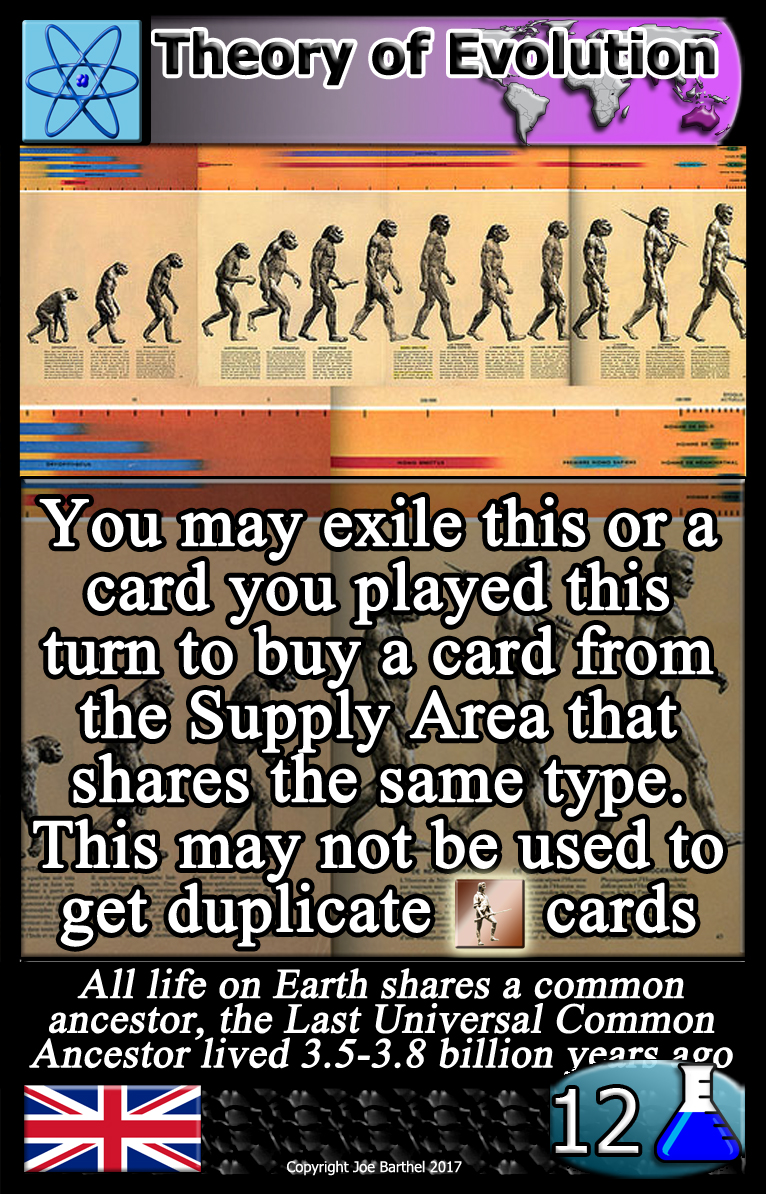
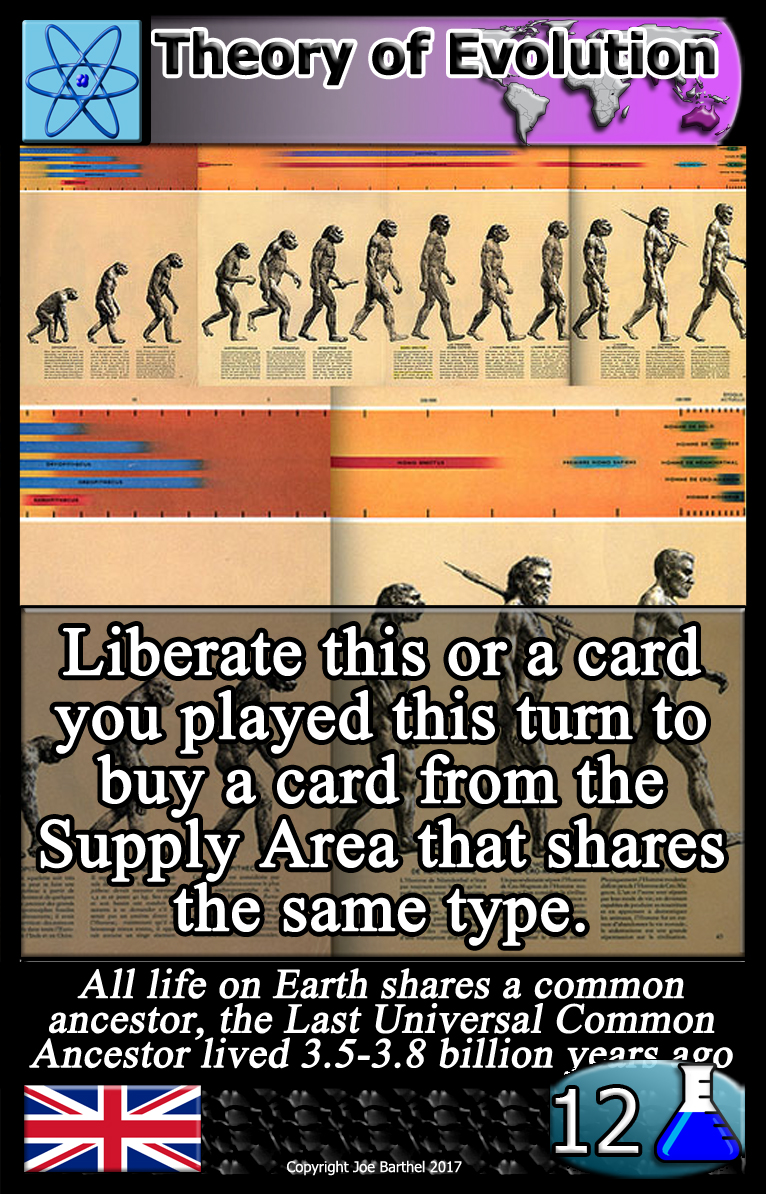
Technology cards

Changed region(s): [[0.0, 0.3719, 0.9909, 0.8057]]

diff --git a/components/game/cards/technology/Refrigeration.js b/components/game/cards/technology/Refrigeration.js
@@ -9,8 +9,21 @@ export default Refrigeration = (props) => {
         cost: {
             gold: 0,
             influence: 0, 
-            science: 4,
+            science: 8,
         },
+        choiceCount: 1, 
+        choices: {
+            1: {
+                draw: 1,
+                produceResource: {
+                    toward: {
+                        city: {
+                            influence: 3
+                        }
+                    }
+                }
+            }
+        }
     }
     
     return <Image style={{width: '100%', height: '100%'}} props={props} source={require('../../../../assets/technology/Refrigeration.jpg')} />

diff --git a/components/game/cards/technology/OpticalLens.js b/components/game/cards/technology/OpticalLens.js
@@ -9,8 +9,19 @@ export default OpticalLens = (props) => {
         cost: {
             gold: 0,
             influence: 0, 
-            science: 4,
+            science: 12,
         },
+        choiceCount: 1, 
+        choices: {
+            1: {
+                produceResource: {
+                    science: 5, 
+                    eachPersonInHand: {
+                        science: 2
+                    }
+                }
+            }
+        }
     }
     
     return <Image style={{width: '100%', height: '100%'}} props={props} source={require('../../../../assets/technology/OpticalLens.jpg')} />

diff --git a/components/game/cards/technology/Pasteurization.js b/components/game/cards/technology/Pasteurization.js
@@ -9,8 +9,19 @@ export default Pasteurization = (props) => {
         cost: {
             gold: 0,
             influence: 0, 
-            science: 4,
+            science: 12,
         },
+        choiceCount: 1, 
+        choices: {
+            1: {
+                draw: 1,
+                produceResource: {
+                    eachWorkerOnCapital: {
+                        any: 1
+                    } 
+                }
+            }
+        }
     }
     
     return <Image style={{width: '100%', height: '100%'}} props={props} source={require('../../../../assets/technology/Pasteurization.jpg')} />

diff --git a/components/game/cards/technology/SteamEngine.js b/components/game/cards/technology/SteamEngine.js
@@ -9,8 +9,19 @@ export default SteamEngine = (props) => {
         cost: {
             gold: 0,
             influence: 0, 
-            science: 4,
+            science: 8,
         },
+        choiceCount: 1, 
+        choices: {
+            1: {
+                produceResource: {
+                    science: 3, 
+                    eachTechInHand: {
+                        science: 3
+                    }
+                }
+            }
+        }
     }
     
     return <Image style={{width: '100%', height: '100%'}} props={props} source={require('../../../../assets/technology/SteamEngine.jpg')} />

diff --git a/components/game/cards/technology/Radio.js b/components/game/cards/technology/Radio.js
@@ -9,8 +9,19 @@ export default Radio = (props) => {
         cost: {
             gold: 0,
             influence: 0, 
-            science: 4,
+            science: 8,
         },
+        choiceCount: 1, 
+        choices: {
+            1: {
+                draw: 1,
+                produceResource: {
+                    eachTechInHand: {
+                        science: 1
+                    }
+                }
+            }
+        }
     }
     
     return <Image style={{width: '100%', height: '100%'}} props={props} source={require('../../../../assets/technology/Radio.jpg')} />

diff --git a/components/game/cards/technology/TheoryofEvolution.js b/components/game/cards/technology/TheoryofEvolution.js
@@ -9,8 +9,15 @@ export default TheoryofEvolution = (props) => {
         cost: {
             gold: 0,
             influence: 0, 
-            science: 4,
+            science: 12,
         },
+        choiceCount: 1, 
+        choices: {
+            1: {
+                // You may exile this or a card you played this turn 
+                // To buy a card from the supply area that shares the same type
+            }
+        }
     }
     
     return <Image style={{width: '100%', height: '100%'}} props={props} source={require('../../../../assets/technology/TheoryofEvolution.jpg')} />

diff --git a/components/game/cards/technology/Miniaturization.js b/components/game/cards/technology/Miniaturization.js
@@ -9,8 +9,17 @@ export default Miniaturization = (props) => {
         cost: {
             gold: 0,
             influence: 0, 
-            science: 4,
+            science: 10,
         },
+        choiceCount: 1, 
+        choices: {
+            1: {
+                produceResource: {
+                    science: 3, 
+                    influence: 3
+                }
+            }
+        }
     }
     
     return <Image style={{width: '100%', height: '100%'}} props={props} source={require('../../../../assets/technology/Miniaturization.jpg')} />

diff --git a/components/game/cards/technology/Timekeeping.js b/components/game/cards/technology/Timekeeping.js
@@ -9,8 +9,17 @@ export default Timekeeping = (props) => {
         cost: {
             gold: 0,
             influence: 0, 
-            science: 4,
+            science: 6,
         },
+        choiceCount: 1, 
+        choices: {
+            1: {
+                advanceTime: 1, 
+                produceResource: {
+                    science: 2
+                }
+            }
+        }
     }
     
     return <Image style={{width: '100%', height: '100%'}} props={props} source={require('../../../../assets/technology/Timekeeping.jpg')} />

diff --git a/components/game/cards/technology/Navigation.js b/components/game/cards/technology/Navigation.js
@@ -9,8 +9,17 @@ export default Navigation = (props) => {
         cost: {
             gold: 0,
             influence: 0, 
-            science: 4,
+            science: 6,
         },
+        choiceCount: 1, 
+        choices: {
+            1: {
+                advanceTime: 1,
+                produceResource: {
+                    science: 2, 
+                }
+            }
+        }
     }
     
     return <Image style={{width: '100%', height: '100%'}} props={props} source={require('../../../../assets/technology/Navigation.jpg')} />

diff --git a/components/game/cards/technology/Transistors.js b/components/game/cards/technology/Transistors.js
@@ -9,8 +9,17 @@ export default Transistors = (props) => {
         cost: {
             gold: 0,
             influence: 0, 
-            science: 4,
+            science: 8,
         },
+        choiceCount: 1, 
+        choices: {
+            1: {
+                draw: 1,
+                produceResource: {
+                    eachTechInHand: 1
+                }
+            }
+        }
     }
     
     return <Image style={{width: '100%', height: '100%'}} props={props} source={require('../../../../assets/technology/Transistors.jpg')} />

diff --git a/components/game/cards/technology/Painting.js b/components/game/cards/technology/Painting.js
@@ -9,8 +9,17 @@ export default Painting = (props) => {
         cost: {
             gold: 0,
             influence: 0, 
-            science: 4,
+            science: 6,
         },
+        choiceCount: 1, 
+        choices: {
+            1: {
+                produceResource: {
+                    science: 2, 
+                    influence: 1
+                }
+            }
+        }
     }
     
     return <Image style={{width: '100%', height: '100%'}} props={props} source={require('../../../../assets/technology/Painting.jpg')} />

diff --git a/components/game/cards/technology/Treaties.js b/components/game/cards/technology/Treaties.js
@@ -9,8 +9,17 @@ export default Treaties = (props) => {
         cost: {
             gold: 0,
             influence: 0, 
-            science: 4,
+            science: 6,
         },
+        choiceCount: 1, 
+        choices: {
+            1: {
+                produceResource: {
+                    science: 2,
+                    influence: 1
+                }
+            }
+        }
     }
     
     return <Image style={{width: '100%', height: '100%'}} props={props} source={require('../../../../assets/technology/Treaties.jpg')} />
